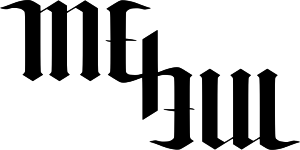
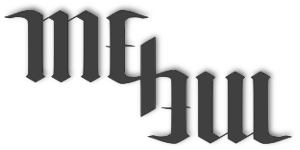
More responsive site, better ambigram

diff --git a/css/default.css b/css/default.css
@@ -1,1 +1,1 @@
-   article, aside, details, figcaption, figure, footer, header, hgroup, main, nav, section, summary{display:block}audio, canvas, video{display:inline-block}audio:not([controls]){display:none;height:0}[hidden]{display:none}html{font-family:sans-serif;-ms-text-size-adjust:100%;-webkit-text-size-adjust:100%}body{margin:0}a:focus{outline:thin dotted}a:active, a:hover{outline:0}h1{font-size:2em;margin:0.67em 0}abbr[title]{border-bottom:1px dotted}b, strong{font-weight:bold}dfn{font-style:italic}hr{-moz-box-sizing:content-box;box-sizing:content-box;height:0}mark{background:#ff0;color:#000}code, kbd, pre, samp{font-family:monospace, serif;font-size:1em}pre{white-space:pre-wrap}q{quotes:"\201C" "\201D" "\2018" "\2019"}small{font-size:80%}sub, sup{font-size:75%;line-height:0;position:relative;vertical-align:baseline}sup{top:-0.5em}sub{bottom:-0.25em}img{border:0}svg:not(:root){overflow:hidden}figure{margin:0}fieldset{border:1px solid #c0c0c0;margin:0 2px;padding:0.35em 0.625em 0.75em}legend{border:0;padding:0}button, input, select, textarea{font-family:inherit;font-size:100%;margin:0}button, input{line-height:normal}button, select{text-transform:none}button, html input[type="button"],  input[type="reset"], input[type="submit"]{-webkit-appearance:button;cursor:pointer}button[disabled], html input[disabled]{cursor:default}input[type="checkbox"], input[type="radio"]{box-sizing:border-box;padding:0}input[type="search"]{-webkit-appearance:textfield;-moz-box-sizing:content-box;-webkit-box-sizing:content-box;box-sizing:content-box}input[type="search"]::-webkit-search-cancel-button, input[type="search"]::-webkit-search-decoration{-webkit-appearance:none}button::-moz-focus-inner, input::-moz-focus-inner{border:0;padding:0}textarea{overflow:auto;vertical-align:top}table{border-collapse:collapse;border-spacing:0}body{color:black;font-size:16px;margin:0px auto 0px auto;width:650px}div#header{border-bottom:2px solid black;margin-bottom:30px;padding:12px 0px 12px 0px}div#logo a{color:black;float:left;font-size:18px;font-weight:bold;text-decoration:none}div#header #navigation{text-align:right}div#header #navigation a{color:black;font-size:18px;font-weight:bold;margin-left:12px;text-decoration:none;text-transform:uppercase}div#footer{border-top:solid 2px black;color:#555;font-size:12px;margin-top:30px;padding:12px 0px 12px 0px;text-align:right}h1{font-size:24px}h2{font-size:20px}div.info{color:#555;font-size:14px;font-style:italic}#headshot{float:right;margin:10px}@media only screen and (max-device-width:650px){body{width:95%}}@media only screen and (max-device-width:399px){#headshot{float:none}#aboutme{clear:both}}a{text-decoration:none}
+   article, aside, details, figcaption, figure, footer, header, hgroup, main, nav, section, summary{display:block}audio, canvas, video{display:inline-block}audio:not([controls]){display:none;height:0}[hidden]{display:none}html{font-family:sans-serif;-ms-text-size-adjust:100%;-webkit-text-size-adjust:100%}body{margin:0}a:focus{outline:thin dotted}a:active, a:hover{outline:0}h1{font-size:2em;margin:0.67em 0}abbr[title]{border-bottom:1px dotted}b, strong{font-weight:bold}dfn{font-style:italic}hr{-moz-box-sizing:content-box;box-sizing:content-box;height:0}mark{background:#ff0;color:#000}code, kbd, pre, samp{font-family:monospace, serif;font-size:1em}pre{white-space:pre-wrap}q{quotes:"\201C" "\201D" "\2018" "\2019"}small{font-size:80%}sub, sup{font-size:75%;line-height:0;position:relative;vertical-align:baseline}sup{top:-0.5em}sub{bottom:-0.25em}img{border:0}svg:not(:root){overflow:hidden}figure{margin:0}fieldset{border:1px solid #c0c0c0;margin:0 2px;padding:0.35em 0.625em 0.75em}legend{border:0;padding:0}button, input, select, textarea{font-family:inherit;font-size:100%;margin:0}button, input{line-height:normal}button, select{text-transform:none}button, html input[type="button"],  input[type="reset"], input[type="submit"]{-webkit-appearance:button;cursor:pointer}button[disabled], html input[disabled]{cursor:default}input[type="checkbox"], input[type="radio"]{box-sizing:border-box;padding:0}input[type="search"]{-webkit-appearance:textfield;-moz-box-sizing:content-box;-webkit-box-sizing:content-box;box-sizing:content-box}input[type="search"]::-webkit-search-cancel-button, input[type="search"]::-webkit-search-decoration{-webkit-appearance:none}button::-moz-focus-inner, input::-moz-focus-inner{border:0;padding:0}textarea{overflow:auto;vertical-align:top}table{border-collapse:collapse;border-spacing:0}body{color:black;font-size:16px;margin:0px auto 0px auto;width:650px}div#header{border-bottom:2px solid black;margin-bottom:30px;text-align:justify;font-size:8px}div#logo{margin-right:12px}div#navigation, div#logo{padding-top:12px;display:inline-block}div#header #boom{display:inline-block;height:0;width:100%}div#logo a{color:black;font-size:18px;font-weight:bold;text-decoration:none}div#header #navigation a{color:black;font-size:16px;font-weight:bold;margin-left:12px;text-decoration:none;text-transform:uppercase}div#header #navigation a:first-child{margin-left:0}div#footer{border-top:solid 2px black;color:#555;font-size:12px;margin-top:30px;padding:12px 0px 12px 0px;text-align:right}h1{font-size:24px}h2{font-size:20px}div.info{color:#555;font-size:14px;font-style:italic}img#headshot{float:right;margin:10px}@media screen and (max-width:640px){body{width:95%}}@media screen and (max-width:480px){img#headshot{float:none}div#aboutme{clear:both}}a{text-decoration:none}.figure{text-align:center;margin-top:0px;margin-bottom:0px;padding:0px}

diff --git a/index.html b/index.html
@@ -20,6 +20,7 @@
                 <a href="./contact.html">Contact</a>
                 <a href="./blog.html">Blog</a>
             </div>
+            <span id="boom"></span>
         </div>
 
         <div id="content">
@@ -30,7 +31,7 @@
 <div id="aboutme"> 
 <p>Hello! I am Mehul Tikekar.</p>
 
-<p>I am a Ph.D. candidate in Electrical Engineering and Computer Science at the Massachusetts Institute of Technology. I work on low power circuit design for video compression and decompression in the <a href="http://www-mtl.mit.edu/researchgroups/icsystems">Digital Integrated Circuits and Systems</a> group headed by <a href="http://www-mtl.mit.edu/~anantha">Prof. Anantha Chandrakasan</a>.</p>
+<p>I am a Ph.D. candidate in Electrical Engineering and Computer Science at the Massachusetts Institute of Technology. I work on low power circuit design for video compression and decompression in the <a href="http://www-mtl.mit.edu/researchgroups/icsystems">Digital Integrated Circuits and Systems Group</a> headed by <a href="http://www-mtl.mit.edu/~anantha">Prof. Anantha Chandrakasan</a>.</p>
 
 <p>I received a B.Tech degree at the Indian Institute of Technology Bombay in 2010 and an S.M degree at MIT in 2012.</p>
 

diff --git a/posts/2013-07-24-advanced-bsv.html b/posts/2013-07-24-advanced-bsv.html
@@ -20,6 +20,7 @@
                 <a href="../contact.html">Contact</a>
                 <a href="../blog.html">Blog</a>
             </div>
+            <span id="boom"></span>
         </div>
 
         <div id="content">

diff --git a/posts/2013-08-24-stream-fusion.html b/posts/2013-08-24-stream-fusion.html
@@ -20,6 +20,7 @@
                 <a href="../contact.html">Contact</a>
                 <a href="../blog.html">Blog</a>
             </div>
+            <span id="boom"></span>
         </div>
 
         <div id="content">

diff --git a/blog.html b/blog.html
@@ -20,6 +20,7 @@
                 <a href="./contact.html">Contact</a>
                 <a href="./blog.html">Blog</a>
             </div>
+            <span id="boom"></span>
         </div>
 
         <div id="content">

diff --git a/contact.html b/contact.html
@@ -20,6 +20,7 @@
                 <a href="./contact.html">Contact</a>
                 <a href="./blog.html">Blog</a>
             </div>
+            <span id="boom"></span>
         </div>
 
         <div id="content">

diff --git a/research.html b/research.html
@@ -20,6 +20,7 @@
                 <a href="./contact.html">Contact</a>
                 <a href="./blog.html">Blog</a>
             </div>
+            <span id="boom"></span>
         </div>
 
         <div id="content">
